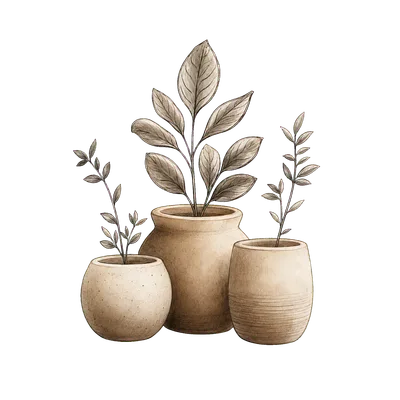
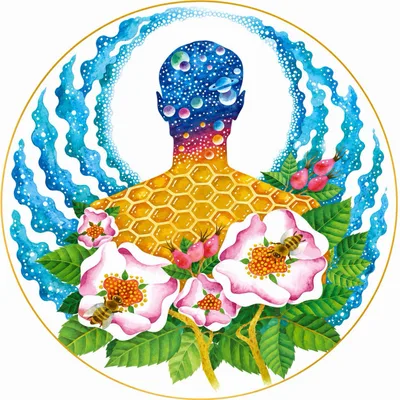
Meniu categorii mega-menu (in jos), VB albastru, imagini categorii, beneficii+checkout
Meniu categorii: se deschide IN JOS sub bara de navigare, pe toata latimea
(mega-menu 1172px), nu ca panou mic in stanga. `group`/`relative` mutate pe bara
intreaga; butonul (CategoriesTrigger) si panoul (CategoriesPanel) sunt separate.
Categoriile pe grila orizontala 4 coloane. Tot CSS pur, zero JS.

Footer: logo VictoriaBank in varianta ALBASTRA de brand (recuperat originalul din
git), nu alb. Aceeasi inaltime cu MIA (40px).

Imagini categorii: cele 4 noi puse de utilizator, atasate corect:
- Accesorii (carduri/etichete), Dezvoltare personala (silueta fagure),
  Aromoterapie (sticlute uleiuri), Leadership (vultur). Optimizate 100-255KB -> 16-45KB.

Beneficii homepage: "Plata sigura" -> "Online prin VictoriaBank MIA sau la livrare".

Checkout, bifa acord: linkurile finale sunt acum Politica de retur + conditiile de
livrare (in loc de Politica de cookie-uri), plus Termeni si Confidentialitate.

diff --git a/components/layout/CategoriesDropdown.tsx b/components/layout/CategoriesDropdown.tsx
@@ -4,53 +4,59 @@ import type { Category } from "@prisma/client";
 import { CategoryIcon } from "@/components/CategoryIcon";
 
 /**
- * Dropdown de categorii — CSS pur, fără JavaScript.
+ * Meniu de categorii — CSS pur, fără JavaScript.
  *
- * Înainte era o componentă client cu useState + listeners de scroll/resize/click
- * și repoziționare manuală. Fiind în header, JS-ul ei se încărca pe FIECARE
- * pagină din site. Aici deschiderea se face din `group-hover` / `focus-within`,
- * deci zero JS trimis către browser și funcționează și fără hidratare.
+ * Se deschide ÎN JOS, pe toată lățimea barei de navigare (mega-menu), nu ca un
+ * panou mic ancorat de buton. De aceea `group` + `relative` trăiesc pe
+ * containerul barei (vezi SecondaryNav), iar panoul e `left-0 right-0`.
  *
- * Accesibilitate: `focus-within` ține panoul deschis la navigarea cu Tab, iar
- * link-urile sunt reale, deci sunt accesibile și cu tastatura.
+ * Deschiderea se face din `group-hover` / `group-focus-within` — zero JS trimis
+ * către browser, funcționează și înainte de hidratare, accesibil cu Tab.
  */
-export function CategoriesDropdown({ categories }: { categories: Category[] }) {
-  return (
-    <div className="group relative shrink-0">
-      <button
-        type="button"
-        aria-haspopup="true"
-        className="flex items-center gap-2 whitespace-nowrap rounded-lg bg-terracotta px-4 py-2 font-semibold uppercase tracking-wide text-cream transition-colors hover:bg-terracotta-dark"
-      >
-        <Menu className="h-4 w-4" aria-hidden="true" />
-        Categorii
-        <ChevronDown
-          className="h-3.5 w-3.5 transition-transform group-hover:rotate-180 group-focus-within:rotate-180"
-          aria-hidden="true"
-        />
-      </button>
 
-      {/* `pt-2` păstrează o punte invizibilă între buton și panou, ca mouse-ul
-          să nu treacă printr-un gol și să închidă meniul. */}
-      <div className="invisible absolute left-0 top-full z-50 pt-2 opacity-0 transition-[opacity,visibility] duration-150 group-hover:visible group-hover:opacity-100 group-focus-within:visible group-focus-within:opacity-100">
-        <div className="flex w-64 max-w-[90vw] flex-col gap-0.5 rounded-xl border border-border bg-card p-3 shadow-xl">
-          {categories.map((category) => (
-            <Link
-              key={category.id}
-              href={`/carti?categorii=${category.slug}`}
-              className="flex items-center gap-2.5 rounded-lg px-3 py-2 text-sm text-ink transition-colors hover:bg-cream-soft hover:text-terracotta"
-            >
-              <CategoryIcon
-                slug={category.slug}
-                name={category.name}
-                className="h-4 w-4 shrink-0 text-terracotta"
-              />
-              {category.name}
-            </Link>
-          ))}
+/** Butonul care declanșează meniul (stă în bară). */
+export function CategoriesTrigger() {
+  return (
+    <button
+      type="button"
+      aria-haspopup="true"
+      className="flex shrink-0 items-center gap-2 whitespace-nowrap rounded-lg bg-terracotta px-4 py-2 font-semibold uppercase tracking-wide text-cream transition-colors hover:bg-terracotta-dark"
+    >
+      <Menu className="h-4 w-4" aria-hidden="true" />
+      Categorii
+      <ChevronDown
+        className="h-3.5 w-3.5 transition-transform group-hover:rotate-180 group-focus-within:rotate-180"
+        aria-hidden="true"
+      />
+    </button>
+  );
+}
+
+/** Panoul care coboară sub bară, pe toată lățimea. */
+export function CategoriesPanel({ categories }: { categories: Category[] }) {
+  return (
+    <div className="invisible absolute inset-x-0 top-full z-50 pt-2.5 opacity-0 transition-[opacity,visibility] duration-150 group-hover:visible group-hover:opacity-100 group-focus-within:visible group-focus-within:opacity-100">
+      <div className="mx-auto max-w-7xl px-4 sm:px-6 lg:px-8">
+        <div className="rounded-xl border border-border bg-card p-4 shadow-xl">
+          <div className="grid grid-cols-2 gap-1.5 sm:grid-cols-3 lg:grid-cols-4">
+            {categories.map((category) => (
+              <Link
+                key={category.id}
+                href={`/carti?categorii=${category.slug}`}
+                className="flex items-center gap-3 rounded-lg px-3 py-2.5 text-sm text-ink transition-colors hover:bg-cream-soft hover:text-terracotta"
+              >
+                <CategoryIcon
+                  slug={category.slug}
+                  name={category.name}
+                  className="h-5 w-5 shrink-0 text-terracotta"
+                />
+                {category.name}
+              </Link>
+            ))}
+          </div>
           <Link
             href="/categorii"
-            className="mt-1 border-t border-border pt-2.5 text-center text-sm font-semibold text-navy transition-colors hover:text-terracotta"
+            className="mt-3 block border-t border-border pt-3 text-center text-sm font-semibold text-navy transition-colors hover:text-terracotta"
           >
             Vezi toate categoriile →
           </Link>

diff --git a/components/layout/SecondaryNav.tsx b/components/layout/SecondaryNav.tsx
@@ -1,17 +1,19 @@
 import Link from "next/link";
 import { secondaryNavLinks, secondaryNavRightLinks } from "@/lib/nav-links";
 import { getAllCategories } from "@/lib/categories";
-import { CategoriesDropdown } from "./CategoriesDropdown";
+import { CategoriesTrigger, CategoriesPanel } from "./CategoriesDropdown";
 
 export async function SecondaryNav() {
   const categories = await getAllCategories();
 
   return (
-    <nav aria-label="Navigație principală" className="hidden bg-navy md:block">
+    // `group` + `relative` pe toată bara: meniul de categorii coboară sub ea, pe
+    // toată lățimea, când butonul e hover/focus (vezi CategoriesPanel).
+    <nav aria-label="Navigație principală" className="group relative hidden bg-navy md:block">
       {/* Trei zone: butonul de categorii (stânga), linkurile de catalog
           distribuite egal (centru), linkurile instituționale (dreapta). */}
       <div className="mx-auto flex max-w-7xl items-center gap-6 px-4 py-2.5 text-sm font-medium text-cream/90 sm:px-6 lg:px-8">
-        <CategoriesDropdown categories={categories} />
+        <CategoriesTrigger />
 
         <div className="flex flex-1 items-center justify-center gap-7 overflow-x-auto [scrollbar-width:none] [&::-webkit-scrollbar]:hidden">
           {secondaryNavLinks
@@ -39,6 +41,8 @@ export async function SecondaryNav() {
           ))}
         </div>
       </div>
+
+      <CategoriesPanel categories={categories} />
     </nav>
   );
 }

diff --git a/components/checkout/CheckoutView.tsx b/components/checkout/CheckoutView.tsx
@@ -187,10 +187,14 @@ export function CheckoutView() {
                 ,{" "}
                 <Link href="/confidentialitate" target="_blank" className="font-medium text-terracotta underline">
                   Politica de confidențialitate
+                </Link>
+                ,{" "}
+                <Link href="/retur-si-rambursare" target="_blank" className="font-medium text-terracotta underline">
+                  Politica de retur
                 </Link>{" "}
                 și{" "}
-                <Link href="/confidentialitate#cookies" target="_blank" className="font-medium text-terracotta underline">
-                  Politica de cookie-uri
+                <Link href="/livrare-si-plata" target="_blank" className="font-medium text-terracotta underline">
+                  condițiile de livrare
                 </Link>
                 .
               </span>

diff --git a/components/home/Benefits.tsx b/components/home/Benefits.tsx
@@ -9,7 +9,7 @@ const BENEFITS = [
   {
     icon: ShieldCheck,
     title: "Plată sigură",
-    description: "Ramburs la livrare, simplu și sigur",
+    description: "Online prin VictoriaBank MIA sau la livrare",
   },
   {
     icon: Undo2,

diff --git a/components/layout/Footer.tsx b/components/layout/Footer.tsx
@@ -107,7 +107,7 @@ export function Footer() {
                 className="h-10 w-auto object-contain"
               />
               <Image
-                src="/plati/victoriabank-alb.png"
+                src="/plati/victoriabank.png"
                 alt="VictoriaBank"
                 width={194}
                 height={40}